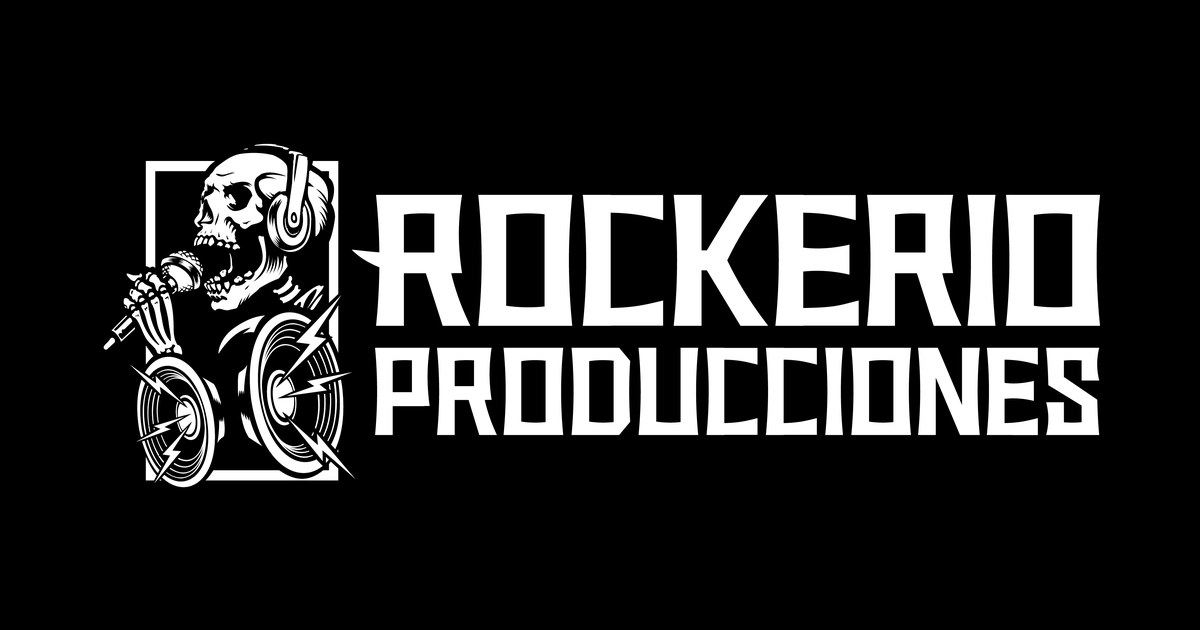
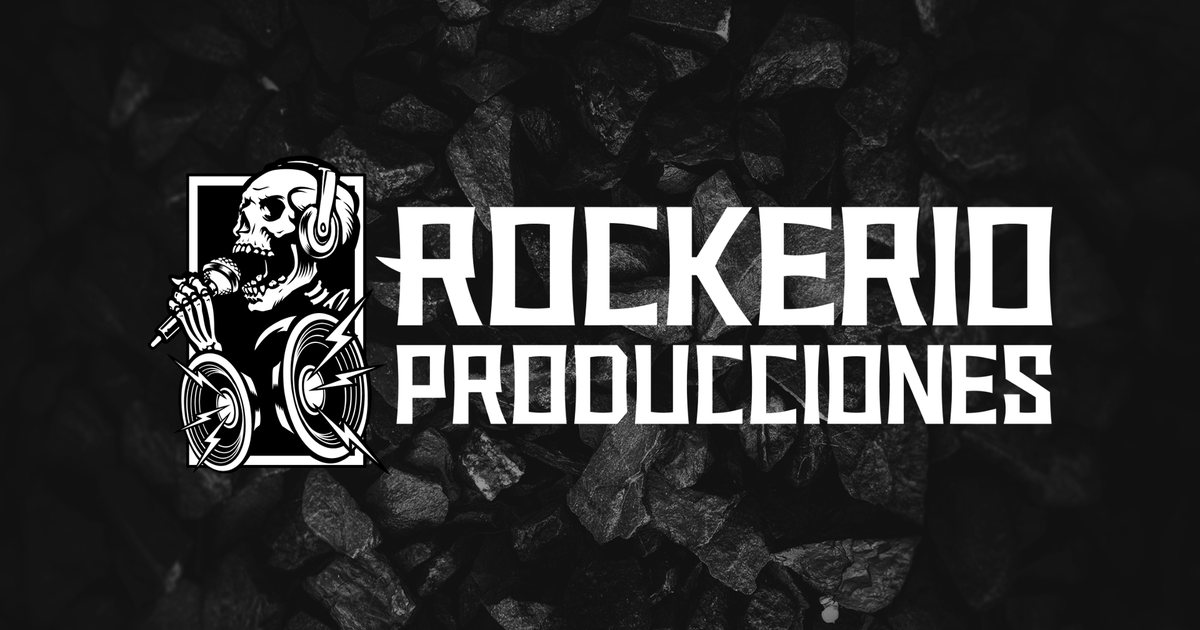
Biblioteca de marca (assets/marca), textura de piedra como fondo e imagen para compartir
Claude-Session: https://claude.ai/code/session_01XCoHY3KD5S9ag2ugMqjwE4

diff --git a/index.html b/index.html
@@ -17,15 +17,15 @@
 <link rel="icon" href="assets/favicon.png">
 <link rel="preconnect" href="https://fonts.googleapis.com">
 <link href="https://fonts.googleapis.com/css2?family=Oswald:wght@500;700&family=Inter:wght@400;600&display=swap" rel="stylesheet">
-<link rel="stylesheet" href="css/styles.css?v=202611140522">
-<link rel="stylesheet" href="css/temas.css?v=202611140522">
-<link rel="stylesheet" href="css/movil.css?v=202611140522">
-<link rel="stylesheet" href="css/clasico.css?v=202611140522">
-<link rel="stylesheet" href="css/pulido.css?v=202611140522">
-<link rel="stylesheet" href="css/produccion.css?v=202611140522">
-<link rel="stylesheet" href="css/legible.css?v=202611140522">
+<link rel="stylesheet" href="css/styles.css?v=202611140535">
+<link rel="stylesheet" href="css/temas.css?v=202611140535">
+<link rel="stylesheet" href="css/movil.css?v=202611140535">
+<link rel="stylesheet" href="css/clasico.css?v=202611140535">
+<link rel="stylesheet" href="css/pulido.css?v=202611140535">
+<link rel="stylesheet" href="css/produccion.css?v=202611140535">
+<link rel="stylesheet" href="css/legible.css?v=202611140535">
 <script>(function(){try{var q=/[?&]rediseno=(\d)/.exec(location.search);if(q)localStorage.setItem('rk-rd',q[1]);if(localStorage.getItem('rk-rd')!=='0'){document.documentElement.classList.add('rd');['css/rediseno.css','https://fonts.googleapis.com/css2?family=Space+Grotesk:wght@500;700&display=swap'].forEach(function(h){var l=document.createElement('link');l.rel='stylesheet';l.href=h;document.head.appendChild(l)})}}catch(e){}})()</script>
-<script src="js/tema.js?v=202611140522"></script><script src="js/teclado.js?v=202611140522" defer></script>
+<script src="js/tema.js?v=202611140535"></script><script src="js/teclado.js?v=202611140535" defer></script>
 <link rel="stylesheet" href="https://fonts.googleapis.com/css2?family=Playfair+Display:wght@600;800&family=Nunito:wght@400;700&family=Space+Mono:wght@400;700&family=Archivo+Black&family=Bebas+Neue&family=Big+Shoulders+Display:wght@800;900&family=Poppins:wght@400;600&display=swap"></head>
 <body>
 <div id="aviso" class="aviso" hidden></div>
@@ -356,14 +356,14 @@
 
 <footer><p class="pie-chips"><span class="chip-ok">● Agenda oficial Rockerío conectada</span></p><img src="assets/marcas/calavera.png" alt="ROCKERÍO Producciones"> <span id="pie"></span></footer>
 
-<script src="js/config.js?v=202611140522"></script>
-<script src="js/reglas.js?v=202611140522"></script>
-<script src="js/app.js?v=202611140522"></script>
-<script src="js/planes.js?v=202611140522"></script>
-<script src="js/mezclador.js?v=202611140522"></script>
-<script src="js/contenido.js?v=202611140522"></script>
-<script src="js/pasos.js?v=202611140522"></script>
-<script src="js/vistas.js?v=202611140522"></script>
+<script src="js/config.js?v=202611140535"></script>
+<script src="js/reglas.js?v=202611140535"></script>
+<script src="js/app.js?v=202611140535"></script>
+<script src="js/planes.js?v=202611140535"></script>
+<script src="js/mezclador.js?v=202611140535"></script>
+<script src="js/contenido.js?v=202611140535"></script>
+<script src="js/pasos.js?v=202611140535"></script>
+<script src="js/vistas.js?v=202611140535"></script>
 <script>(function(){var h=document.querySelector(".hero-marca");if(!h||matchMedia("(prefers-reduced-motion:reduce)").matches)return;addEventListener("scroll",function(){h.style.setProperty("--par",Math.min(scrollY*.12,60)+"px")},{passive:true})})();</script>
 </body>
 </html>

diff --git a/css/styles.css b/css/styles.css
@@ -1,7 +1,7 @@
 :root{--velo:rgba(20,20,19,.95);--panel-a:rgba(29,28,27,.92);--top-a:rgba(14,14,13,.95);--bg:#141413;--bg2:#0e0e0d;--panel:#1d1c1b;--borde:#32302e;--oro:#FCC631;--rojo:#D81D23;--txt:#f3efe8;--mut:#b5afa6;--ok:#4ade80}
 *{box-sizing:border-box}
 html{scroll-behavior:smooth;scroll-padding-top:70px}
-body{margin:0;background:var(--bg) url(../assets/hero-textura.jpg) center/cover fixed;color:var(--txt);font:16px/1.55 Inter,system-ui,sans-serif}
+body{margin:0;background:var(--bg) url(../assets/marca/textura-fondo.jpg) center/cover fixed;color:var(--txt);font:16px/1.55 Inter,system-ui,sans-serif}
 body::before{content:"";position:fixed;inset:0;background:var(--velo);z-index:-1}
 h1,h2,legend,.btn,nav a{font-family:Oswald,Impact,sans-serif;text-transform:uppercase;letter-spacing:.04em}
 a{color:var(--oro)}
